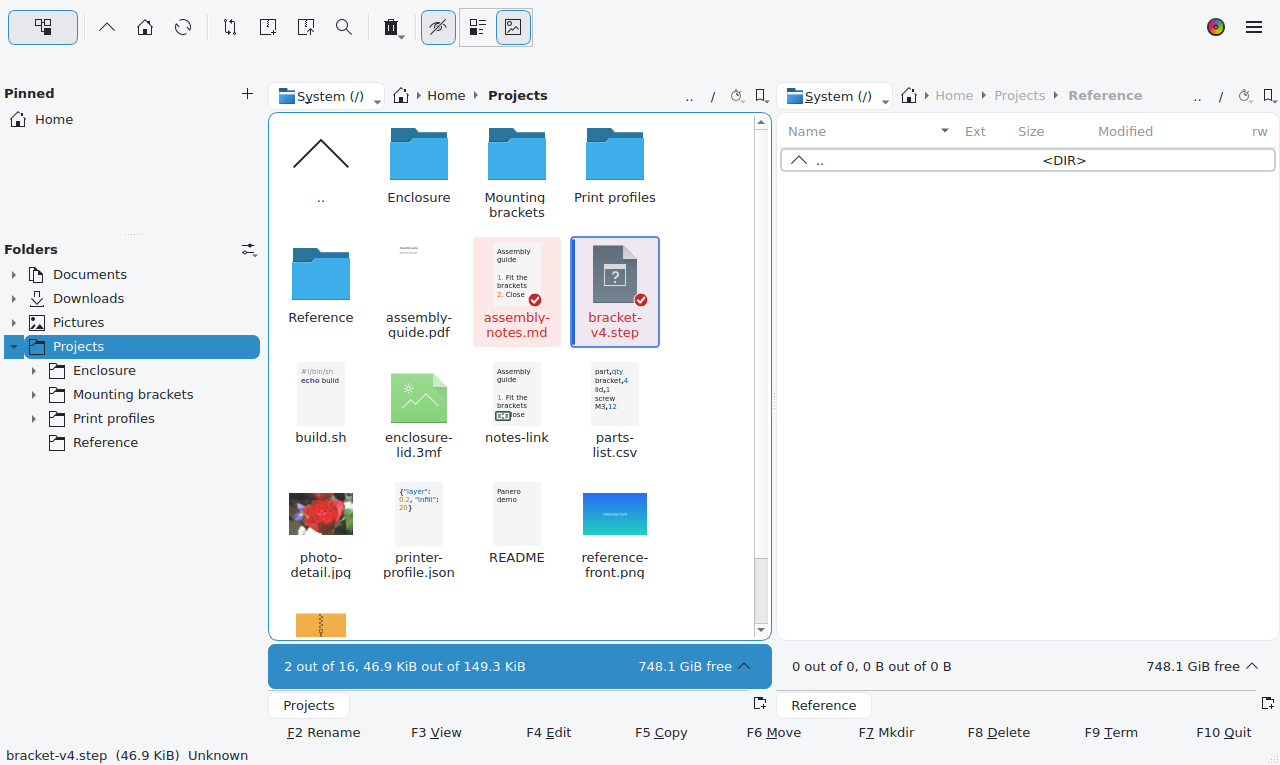
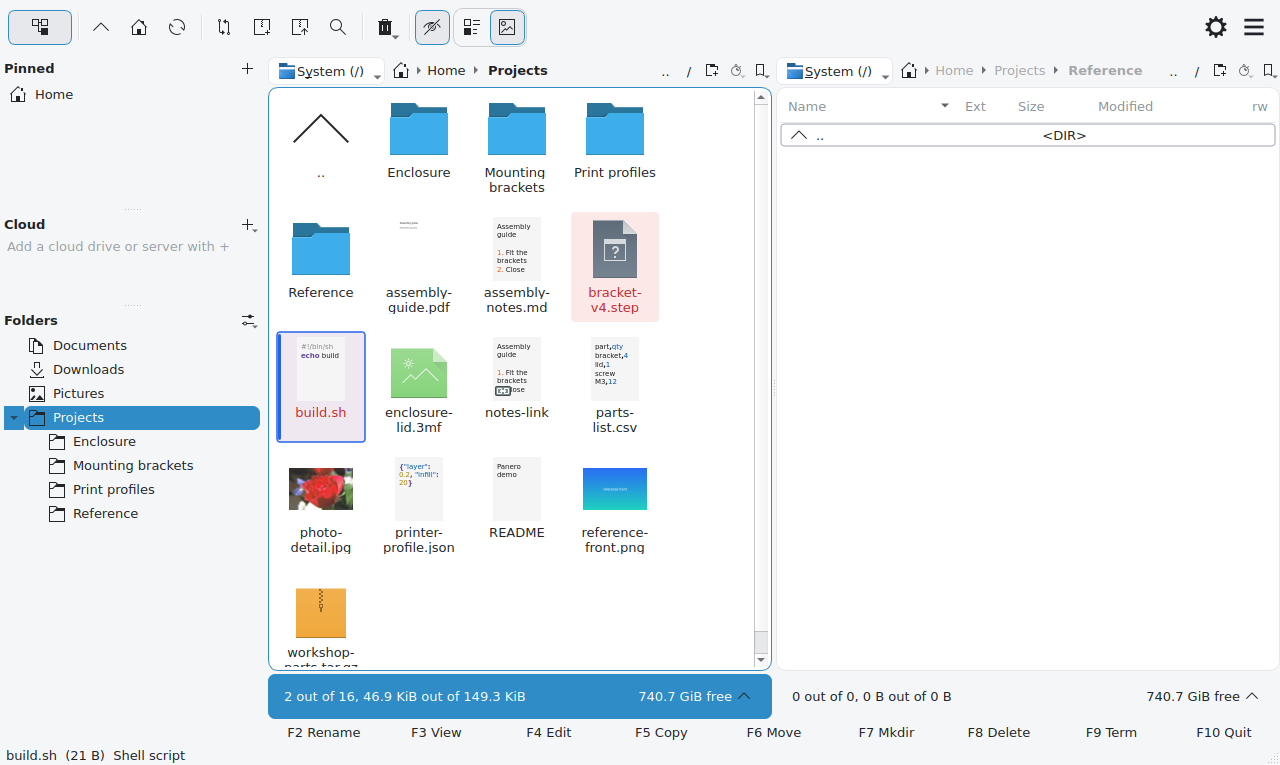
Preview 4 screenshots and test report

diff --git a/dev/TEST-REPORT.md b/dev/TEST-REPORT.md
@@ -84,6 +84,23 @@ are in `dev/TEST-REPORT-packaging.md`.
 - Downloaded assets: `sha256sum -c SHA256SUMS` OK; package `Version: 0.1.0~preview.3-1`;
   source archive commit `ba26852269b4ec98a3e981bc39bf099adcbe24fe` = tag commit.
 
+## Preview 4 (2026-11-20, before release)
+
+- ctest 6/6 (new panerocloudtest; paneropathstest empty-URL case; theme test
+  badge default), GUI file-ops 17/17 under Xvfb.
+- Interactive under Xvfb: progress row in the destination panel during a 1.6 GB
+  copy (no KIO window); text-under-icon toolbar; rename field; Quick Settings
+  (all new options); theme change -> restart prompt -> restart (new process,
+  settings kept, fully dark); Panero Line icons + folder colours (light/dark,
+  system icons too); toolbar unlock grip; F9 opens the desktop terminal; new tab
+  without error; F7 cursor on the new folder; Cloud section: rclone alias
+  remote mounted by click, opened in the panel, unmounted on exit (rclone
+  1.60.1 from the noble archive, extracted locally).
+- Container build (ctest 5/5 in the build, lintian only documented overrides)
+  and package tests incl. upgrade from preview 3: 85 pass, 0 fail.
+- Not verified: real cloud sign-ins (no accounts); PackageKit install of
+  rclone/fuse3 (needs authorisation; same code path as KDiff3).
+
 ## Not yet verified (open)
 
 - Preview 3 installed on the owner's Zorin host (owner installed preview 2; launcher and About worked, toolbar issue fixed in preview 3).
